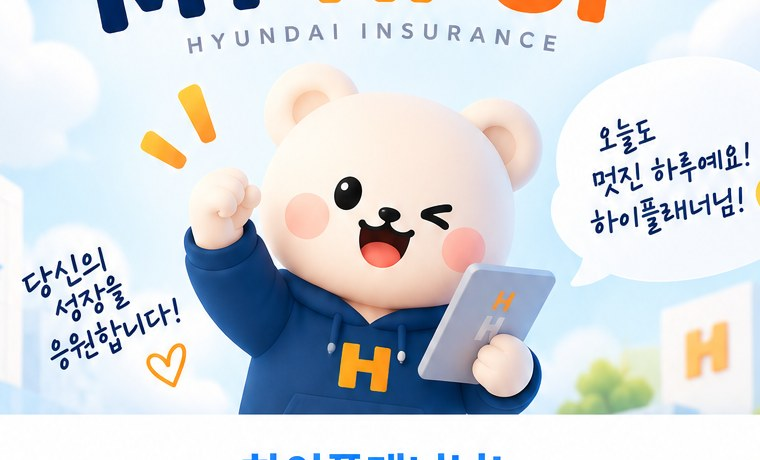
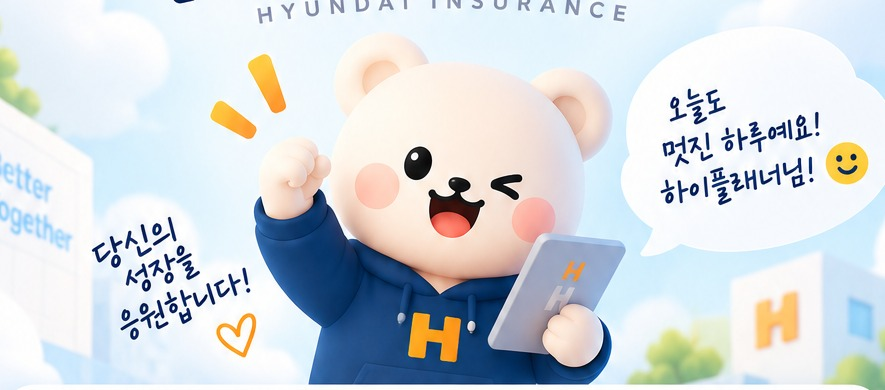
로그인 화면 변경

diff --git a/style.css b/style.css
@@ -1110,3 +1110,73 @@ button {
   .login-benefit { min-height: 78px; }
   .login-benefit span { font-size: 11px; }
 }
+
+
+/* ==========================================================
+   2026-09-15 로그인 화면 핫픽스
+   - 상단/캐릭터 잘림 방지
+   - 화면 전체 밝은 하늘 + 구름 느낌 유지
+   ========================================================== */
+#screen-login.login-screen {
+  min-height: 100svh;
+  justify-content: flex-start;
+  padding: max(22px, env(safe-area-inset-top)) 12px 30px;
+  background:
+    radial-gradient(ellipse at -8% 14%, rgba(255,255,255,.98) 0 13%, transparent 14%),
+    radial-gradient(ellipse at 105% 28%, rgba(255,255,255,.96) 0 16%, transparent 17%),
+    radial-gradient(ellipse at 8% 86%, rgba(255,255,255,.90) 0 14%, transparent 15%),
+    linear-gradient(180deg, #ccecff 0%, #eaf7ff 48%, #f7fbff 100%);
+}
+
+#screen-login .login-brand-new {
+  flex: 0 0 auto;
+  margin: 0 0 12px;
+  padding-top: 0;
+}
+
+#screen-login .login-kicker {
+  margin-top: 0;
+}
+
+#screen-login .login-logo-title {
+  font-size: clamp(36px, 10.5vw, 50px);
+  line-height: 1.08;
+  overflow: visible;
+}
+
+#screen-login .login-mascot-wrap {
+  width: min(100%, 440px);
+  height: auto;
+  aspect-ratio: 885 / 390;
+  margin: 0 auto -10px;
+  border-radius: 26px 26px 18px 18px;
+  overflow: hidden;
+  background: #dff3ff;
+}
+
+#screen-login .login-mascot {
+  width: 100%;
+  height: 100%;
+  object-fit: cover;
+  object-position: center center;
+}
+
+#screen-login .login-card-new {
+  margin-top: 0;
+}
+
+@media (max-width: 380px) {
+  #screen-login.login-screen {
+    padding-left: 8px;
+    padding-right: 8px;
+  }
+
+  #screen-login .login-logo-title {
+    font-size: clamp(34px, 10vw, 42px);
+  }
+
+  #screen-login .login-mascot-wrap {
+    width: 100%;
+    aspect-ratio: 885 / 400;
+  }
+}

diff --git a/index.html b/index.html
@@ -15,7 +15,7 @@
 <title>MY HI-UP · 나의 실적과 시상 현황</title>
 <meta name="description" content="플래너 코드로 개인환산순증, 매출아너스, TC스텝업 시상 현황을 한눈에 확인하세요." />
 <link rel="stylesheet" as="style" crossorigin href="https://cdn.jsdelivr.net/gh/orioncactus/pretendard@v1.3.9/dist/web/variable/pretendardvariable.css" />
-<link rel="stylesheet" href="style.css?v=20260915b" />
+<link rel="stylesheet" href="style.css?v=20260915c" />
 </head>
 <body>
 <div class="app-shell">
@@ -36,7 +36,7 @@
     </div>
 
     <div class="login-mascot-wrap" aria-hidden="true">
-      <img class="login-mascot" src="images/hiup-mascot.jpg?v=20260915b" alt="" />
+      <img class="login-mascot" src="images/hiup-mascot.jpg?v=20260915c" alt="" />
     </div>
 
     <div class="login-card login-card-new">
@@ -197,7 +197,7 @@
       </div>
     </section>
 
-    <p class="result-footer">표시된 실적/시상금은 업로드된 백데이터를 기준으로 계산됩니다.<br />실제 지급 운영 시, 변동성이 있을 수 있습니다.</p>
+    <p class="result-footer">본 화면은 테스트용 MVP이며, 표시된 실적/시상금은 업로드된 백데이터를 기준으로 계산됩니다.<br />실제 운영 시에는 별도 인증 및 보안 구조 적용이 필요합니다.</p>
   </div>
 </div>
 <script src="js/xlsxLite.js?v=20260907a"></script>
